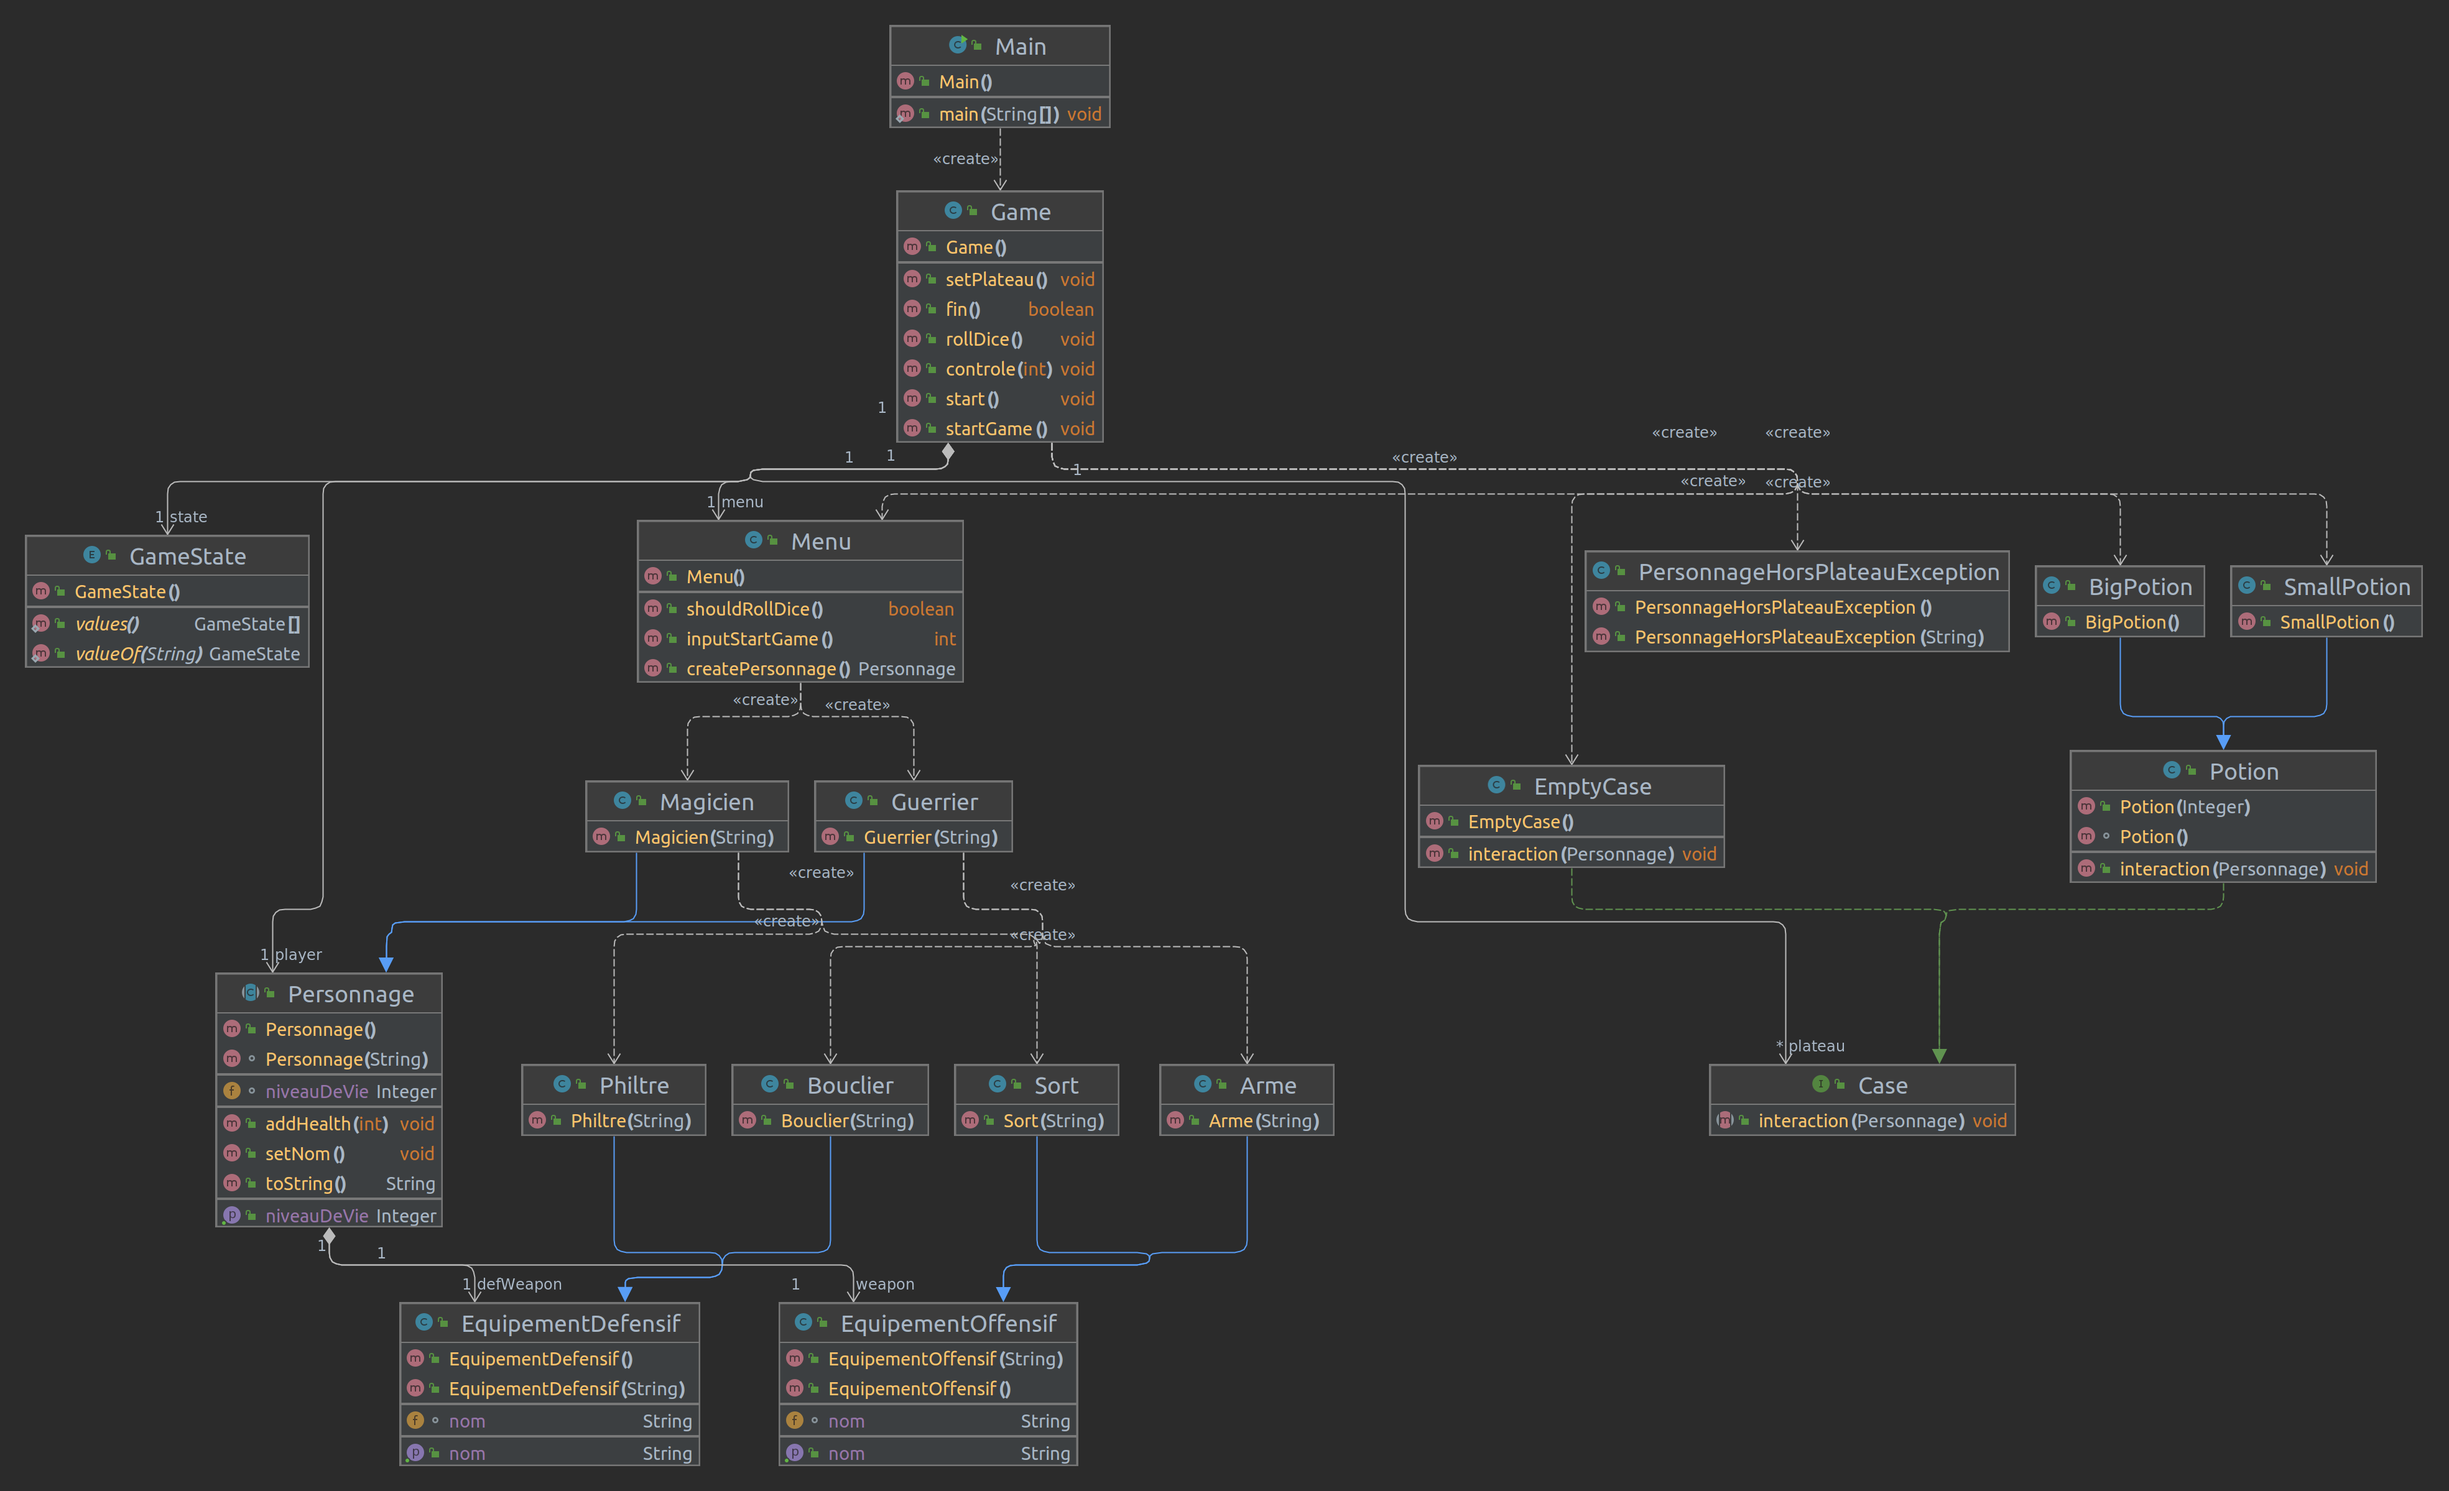
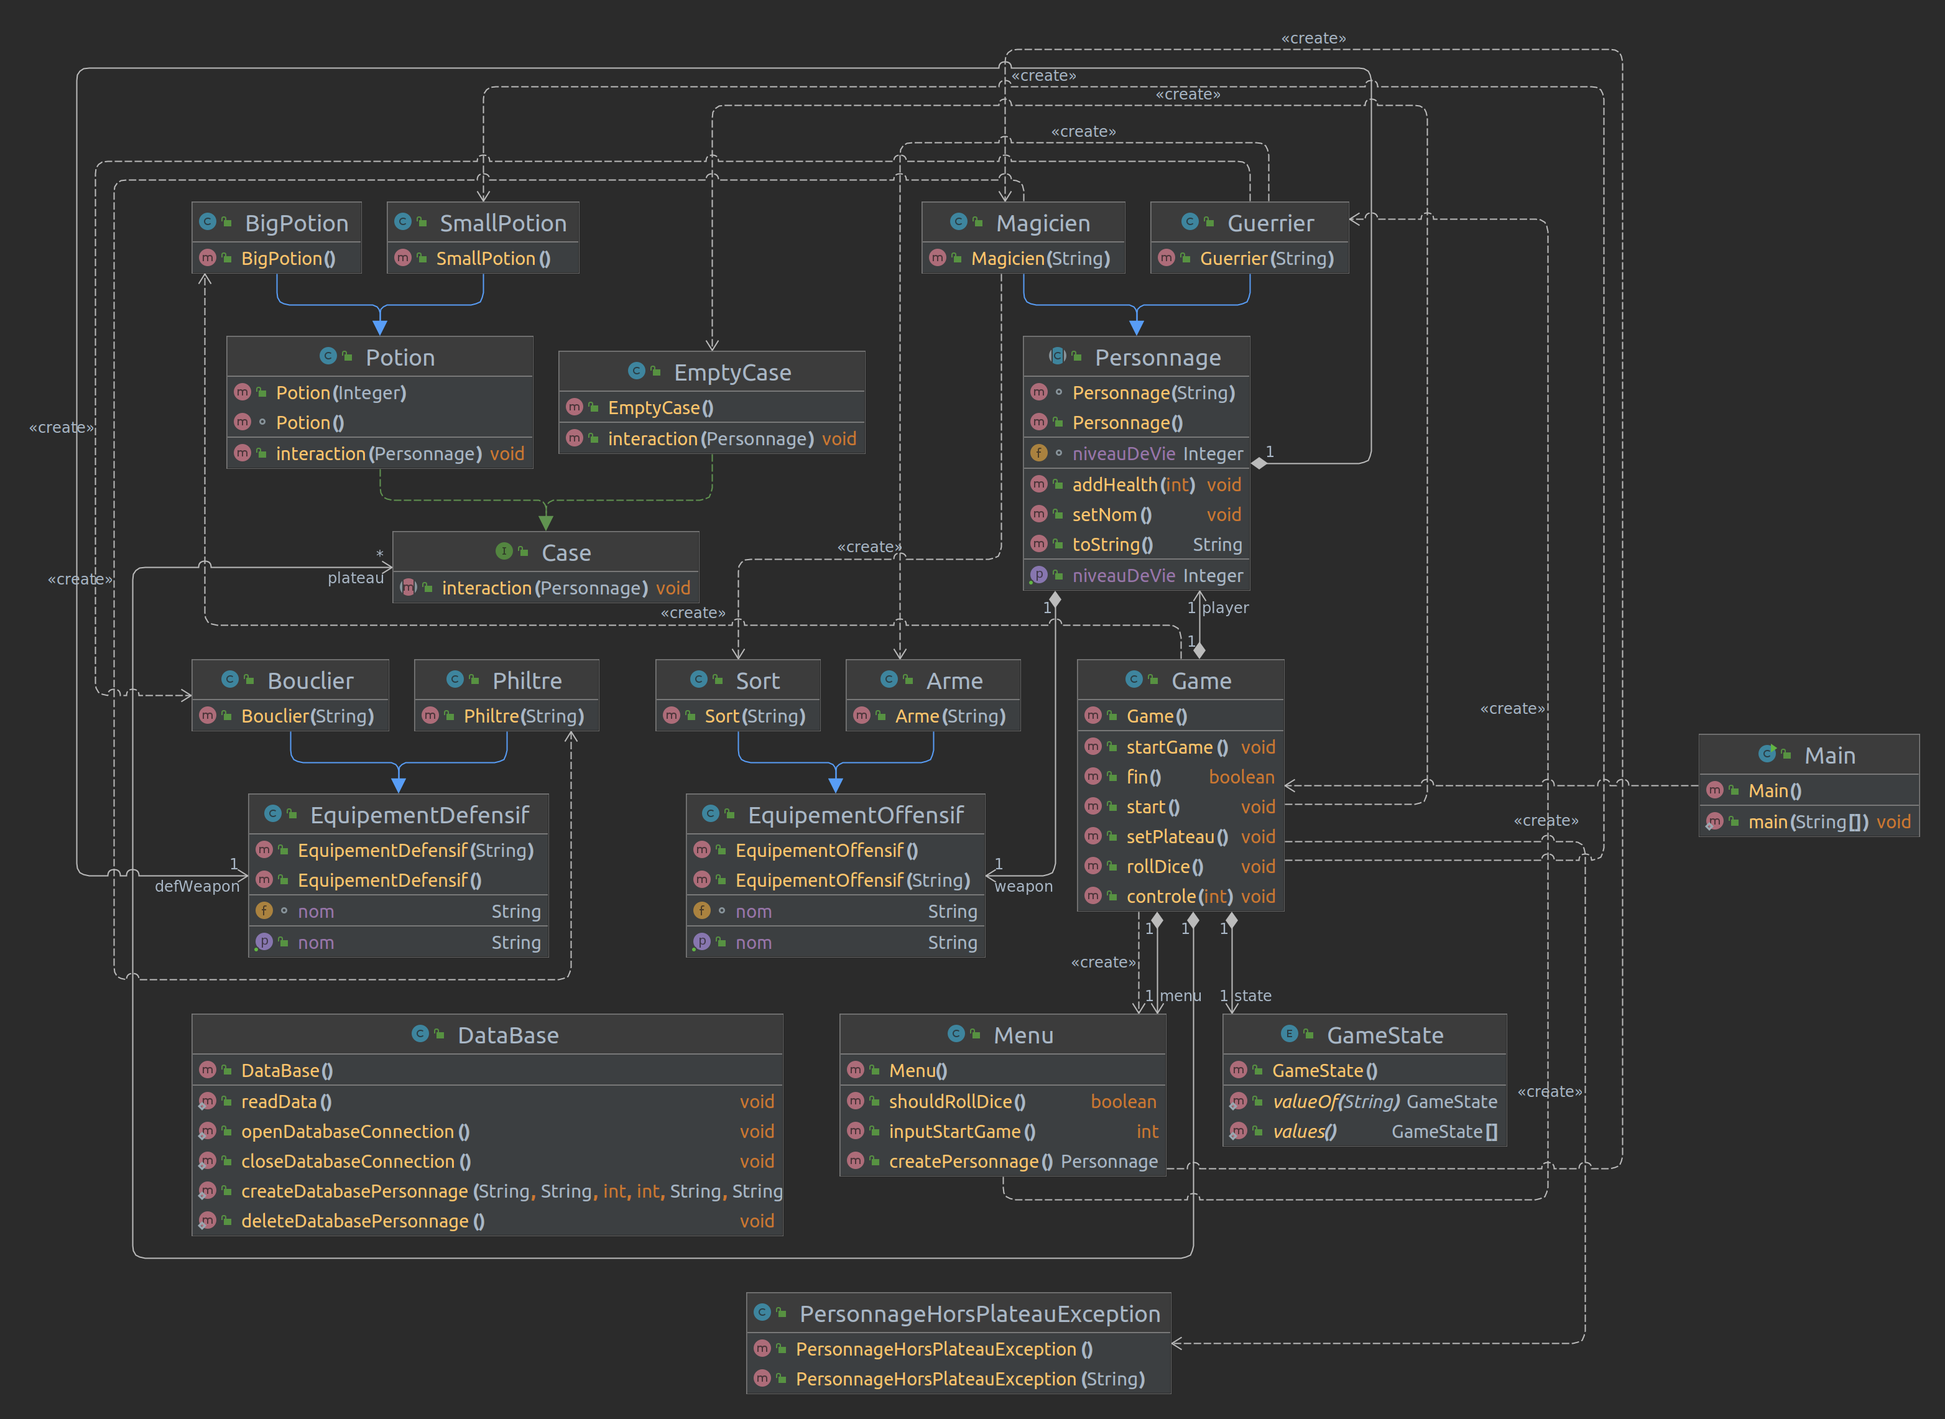
Refacto

diff --git a/src/main/java/engine/Menu.java b/src/main/java/engine/Menu.java
@@ -1,6 +1,5 @@
 package engine;
 
-import com.sun.tools.javac.Main;
 import personnage.Guerrier;
 import personnage.Magicien;
 import personnage.Personnage;
@@ -10,7 +9,7 @@ import java.util.Scanner;
 
 
 public class Menu {
-    Scanner myObj = new Scanner(System.in);
+    private Scanner myObj = new Scanner(System.in);
     public Personnage createPersonnage() throws SQLException {
 
         System.out.println("Enter character type ( 1 = Guerrier / 2 = Magicien) and name:");
@@ -32,13 +31,21 @@ public class Menu {
         }
 
         DataBase.readData();
+        System.out.println("Write 'infos' at anytime to show infos about your character");
         return player1;
     }
 
     public boolean shouldRollDice() {
-        System.out.println("Press Y to roll :");
+        System.out.println("Press Y to roll or info to show your character infos :");
         String ans = myObj.nextLine();
         return ans.equals("Y");
+    }
+
+    public void shouldDisplayInfos() throws SQLException {
+        String ans = myObj.nextLine();
+        if (ans.equals("infos")){
+            DataBase.readData();
+        }
     }
 
     public int inputStartGame() {

diff --git a/src/main/java/engine/DataBase.java b/src/main/java/engine/DataBase.java
@@ -61,7 +61,7 @@ public class DataBase {
                 int niveauForce = resultSet.getInt(5);
                 String weapon = resultSet.getString(6);
                 String defWeapon = resultSet.getString(7);
-                System.out.println("Personnage -> " + name + " / Type: " + type + " / HP: " + niveauVie + " / Force: " + niveauForce + " / Compétence: " + weapon + " / Defense: " + defWeapon);
+                System.out.println("\t >Personnage -> " + name + " / Type: " + type + " / HP: " + niveauVie + " / Force: " + niveauForce + " / Compétence: " + weapon + " / Defense: " + defWeapon);
             }
             System.out.println("Data reading done.");
         }

diff --git a/src/main/java/personnage/Personnage.java b/src/main/java/personnage/Personnage.java
@@ -5,13 +5,13 @@ import weapon.*;
 import java.util.Scanner;
 
 public abstract class Personnage {
-    Scanner myObj = new Scanner(System.in);
-    Integer type;
-    String nom;
-    Integer niveauDeVie;
-    Integer forceDattaque;
-    EquipementOffensif weapon;
-    EquipementDefensif defWeapon;
+    private Scanner myObj = new Scanner(System.in);
+    private Integer type;
+    private String nom;
+    public Integer niveauDeVie;
+    public Integer forceDattaque;
+    public EquipementOffensif weapon;
+    public EquipementDefensif defWeapon;
 
     Personnage(String nom) {
         this.nom = nom;

diff --git a/src/main/java/engine/Game.java b/src/main/java/engine/Game.java
@@ -18,10 +18,10 @@ import java.util.concurrent.ThreadLocalRandom;
  */
 public class Game {
     private final List<Case> plateau = new ArrayList<>();
-    GameState state = GameState.CREATION;
-    Menu menu = new Menu();
-    Scanner sc = new Scanner(System.in);
-    Integer position;
+    private GameState state = GameState.CREATION;
+    private Menu menu = new Menu();
+    private Scanner sc = new Scanner(System.in);
+    private Integer position;
     private Personnage player;
 
     /**

diff --git a/src/main/java/weapon/EquipementDefensif.java b/src/main/java/weapon/EquipementDefensif.java
@@ -1,9 +1,9 @@
 package weapon;
 
 public class EquipementDefensif {
-    String type;
-    String nom;
-    Integer niveauDefense;
+    private String type;
+    private String nom;
+    public Integer niveauDefense;
 
     public EquipementDefensif(String type){
         if (type == "Bouclier" ){

diff --git a/src/main/java/weapon/EquipementOffensif.java b/src/main/java/weapon/EquipementOffensif.java
@@ -1,9 +1,9 @@
 package weapon;
 
 public class EquipementOffensif {
-    String type;
-    String nom;
-    Integer niveauAttaque;
+    private String type;
+    private String nom;
+    public Integer niveauAttaque;
 
     public EquipementOffensif(String type){
         if (type == "Arme" ){

diff --git a/src/main/java/Loot/Potion.java b/src/main/java/Loot/Potion.java
@@ -4,7 +4,7 @@ import lalala.Case;
 import personnage.Personnage;
 
 public class Potion implements Case {
-    Integer healingPower = 0;
+    private Integer healingPower = 0;
 
     public Potion(Integer healing) {
         this.healingPower = healing;
